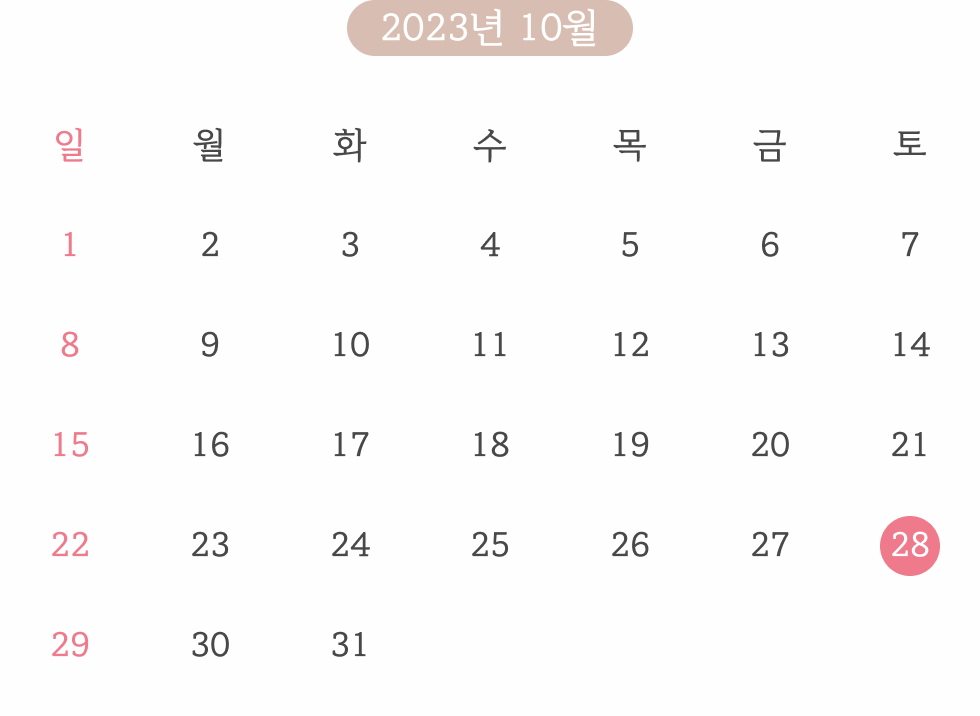
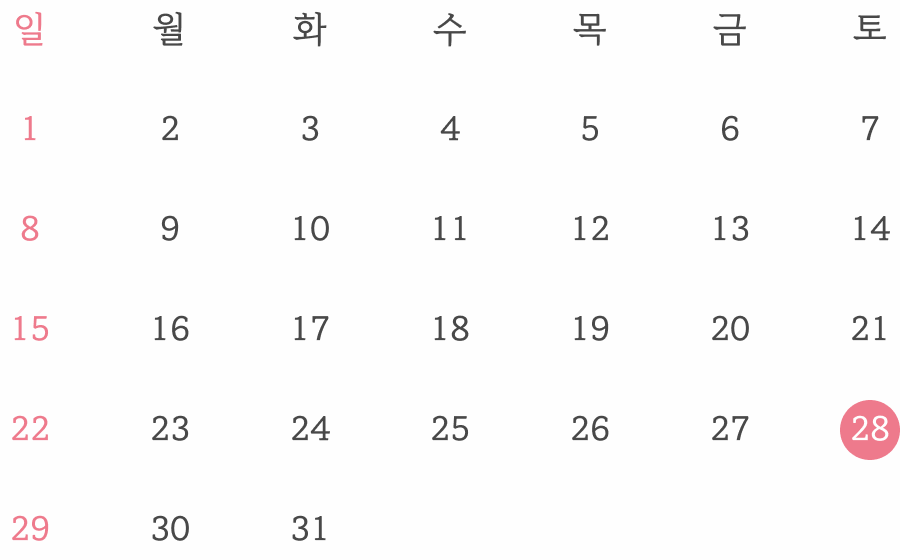
Update

diff --git a/components/WeddingDay.tsx b/components/WeddingDay.tsx
@@ -1,8 +1,10 @@
 import React from 'react'
 import Image from 'next/image'
-import { Column } from 'components/common/Layout'
+import { Column, Row } from 'components/common/Layout'
 import { H1Text, SectionText } from 'components/common/Text'
 import { getDiffDate } from 'global/format'
+import { Chip } from './common/Chip'
+import moment from 'moment'
 
 export const WeddingDay: React.FC<{
   weddingDate: string
@@ -13,19 +15,24 @@ export const WeddingDay: React.FC<{
     diffDate === 0 ? '오늘 결혼합니다.' : `결혼식까지 ${diffDate}일 남았습니다`
 
   return (
-    <Column gap={30} style={{ width: '100%' }}>
+    <Column gap={40} style={{ width: '100%' }}>
       <Column gap={10}>
         <SectionText>Wedding day</SectionText>
         <H1Text>{dDay}</H1Text>
       </Column>
-      <Image
-        src={calendarImage}
-        alt='calendar'
-        width={353}
-        height={258}
-        objectFit='cover'
-        layout='responsive'
-      />
+      <Column gap={20}>
+        <Row style={{ justifyContent: 'center' }}>
+          <Chip>{moment(new Date(weddingDate)).format('YYYY년 M월')}</Chip>
+        </Row>
+        <Image
+          src={calendarImage}
+          alt='calendar'
+          width={353}
+          height={258}
+          objectFit='cover'
+          layout='responsive'
+        />
+      </Column>
     </Column>
   )
 }

diff --git a/components/Contact.tsx b/components/Contact.tsx
@@ -6,6 +6,7 @@ import { Button } from 'components/common/Button'
 import { BackgroundImage } from 'components/common/Image'
 import { theme } from 'styles/theme'
 import { PhoneNumber } from 'global/type'
+import { Chip } from 'components/common/Chip'
 
 export const Contact: React.FC<{
   groomPhoneNumber: PhoneNumber[]
@@ -17,7 +18,7 @@ export const Contact: React.FC<{
       <H1Text>연락처</H1Text>
     </Column>
     <Section>
-      <SectionTitleText>신랑측</SectionTitleText>
+      <Chip>신랑측</Chip>
       {groomPhoneNumber.map((item) => (
         <Row key={item.name} gap={20} style={{ alignItems: 'center' }}>
           <Row gap={10}>
@@ -36,7 +37,7 @@ export const Contact: React.FC<{
       ))}
     </Section>
     <Section>
-      <SectionTitleText>신부측</SectionTitleText>
+      <Chip>신부측</Chip>
       {gridePhoneNumber.map((item) => (
         <Row key={item.name} gap={20} style={{ alignItems: 'center' }}>
           <Row gap={10}>
@@ -73,12 +74,4 @@ const CopyButton = styled(Button)`
   background-color: ${(p) => p.theme.color.lightGray};
   font-size: 13px;
   color: ${(p) => p.theme.color.darkGray};
-`
-
-const SectionTitleText = styled(BaseText)`
-  width: fit-content;
-  padding: 4px 16px;
-  border-radius: 50px;
-  color: ${(p) => p.theme.color.white};
-  background-color: ${(p) => p.theme.color.primary};
 `

diff --git a/pages/[id].tsx b/pages/[id].tsx
@@ -1,6 +1,5 @@
 import React from 'react'
 import styled from 'styled-components'
-import moment from 'moment'
 import { GetStaticPaths, GetStaticProps, NextPage } from 'next'
 import { Column, Media } from 'components/common/Layout'
 import { Invitation } from 'components/Invitation'
@@ -17,7 +16,7 @@ import { postIds } from 'public/data'
 import { Seo } from 'components/common/Seo'
 import { Footer } from 'components/common/Footer'
 import { Location } from 'components/Location'
-import { getFullWeddingDate, getWeekDay } from 'global/format'
+import { getFullWeddingDate } from 'global/format'
 
 export const getStaticPaths: GetStaticPaths = async () => {
   const paths = postIds.map((id) => {

diff --git a/components/common/Footer.tsx b/components/common/Footer.tsx
@@ -3,10 +3,10 @@ import styled from 'styled-components'
 import Link from 'next/link'
 import moment from 'moment'
 import { Column, Row } from 'components/common/Layout'
-import { BackgroundImage } from './Image'
-import { BaseText, SmallText } from './Text'
+import { BackgroundImage } from 'components/common/Image'
+import { BaseText, SmallText } from 'components/common/Text'
 import { PREFIX } from 'global/constant'
-import { Card } from './Card'
+import { Card } from 'components/common/Card'
 
 declare global {
   interface Window {

diff --git a/components/common/Chip.tsx b/components/common/Chip.tsx
@@ -1,0 +1,10 @@
+import styled from 'styled-components'
+import { BaseText } from 'components/common/Text'
+
+export const Chip = styled(BaseText)`
+  width: fit-content;
+  padding: 4px 16px;
+  border-radius: 50px;
+  color: ${(p) => p.theme.color.white};
+  background-color: ${(p) => p.theme.color.primary};
+`
